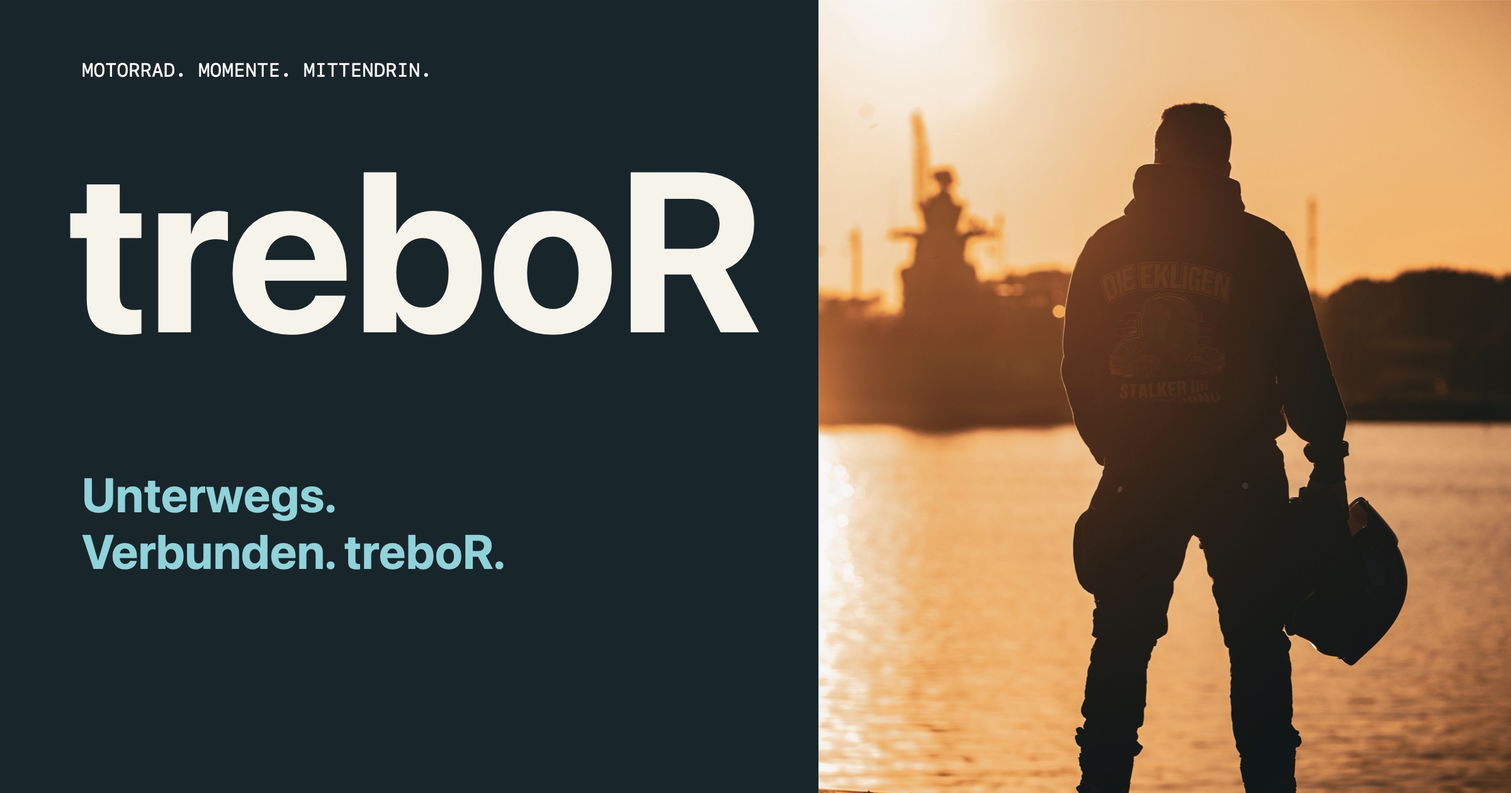
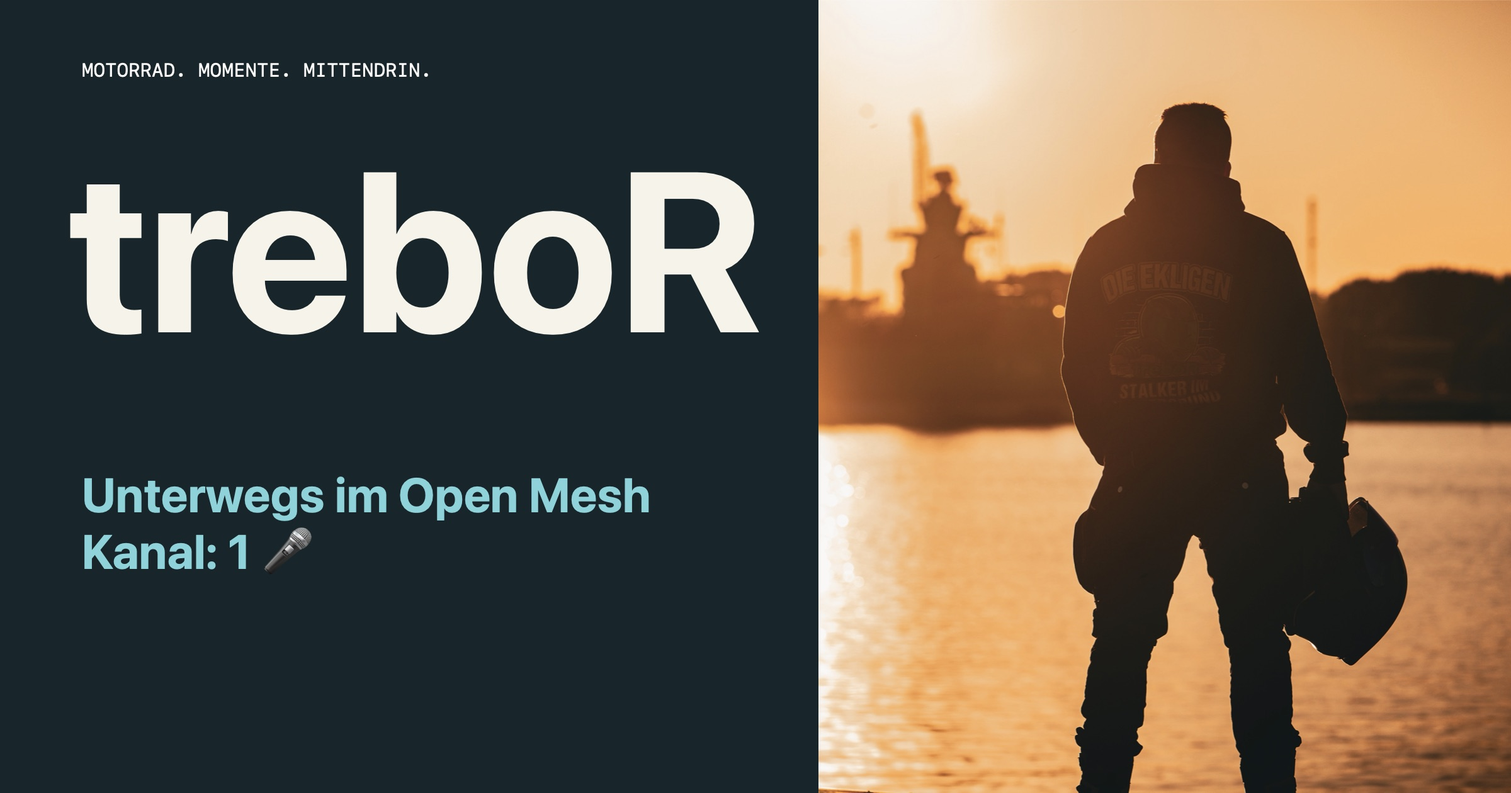
Update treboR website from Mac app

Changed region(s): [[0.0312, 0.65, 0.3438, 0.7429], [0.2188, 0.5881, 0.4375, 0.65]]

diff --git a/index.html b/index.html
@@ -6,7 +6,7 @@
 <link rel="canonical" href="https://trebor-official.github.io/links/"><meta property="og:url" content="https://trebor-official.github.io/links/"><meta property="og:image" content="https://trebor-official.github.io/links/social-preview.jpg"><meta name="twitter:card" content="summary_large_image">
 <link rel="icon" href="favicon.svg" type="image/svg+xml">
 <style>
-:root{color-scheme:dark;--bg:#101713;--fg:#F4F6EF;--accent:#00F1C8;--on-accent:#101713;--radius:20.0px}
+:root{color-scheme:dark;--bg:#101713;--fg:#F4F6EF;--accent:#00F1C8;--on-accent:#101713;--radius:25.439785714285716px}
 *{box-sizing:border-box}body{margin:0;background:var(--bg);color:var(--fg);font-family:Arial,Helvetica,sans-serif;-webkit-font-smoothing:antialiased}a{color:inherit}button{font:inherit}svg{width:24px;height:24px;display:block}button,a{-webkit-tap-highlight-color:transparent}a:focus-visible,button:focus-visible{outline:3px solid var(--accent);outline-offset:5px}.skip{position:fixed;top:-100px;left:16px;z-index:20;background:var(--fg);color:var(--bg);padding:14px}.skip:focus{top:12px}
 main{max-width:1600px;margin:auto;padding:0 5%}.masthead{display:flex;justify-content:space-between;align-items:center;padding:24px 0 18px;border-bottom:1px solid color-mix(in srgb,var(--fg) 25%,transparent);font:11px/1.4 monospace;letter-spacing:.1em}.mast-brand{display:flex;align-items:center;gap:10px;font:bold 21px Arial;letter-spacing:-.07em}.mast-brand b{color:var(--accent)}.avatar{border-radius:50%;object-fit:cover}.mast-note{max-width:50%;text-align:right;font-size:10px}.intro{position:relative;z-index:2;padding-top:28px;pointer-events:none}.eyebrow{font:10px/1.4 monospace;letter-spacing:.13em;margin:0 0 8px}.wordmark{font-family:Arial,Helvetica,sans-serif;font-size:clamp(80px,22vw,340px);font-weight:900;line-height:.79;letter-spacing:-.095em;margin:0 0 0 -.012em;overflow-wrap:anywhere}.wordmark .last{color:var(--accent);transition:color .7s}.composition{display:grid;grid-template-columns:minmax(0,1fr);margin-top:24px}.story{min-width:0}.bio{font-size:clamp(26px,4.1vw,56px);font-weight:700;letter-spacing:-.055em;line-height:1.08;white-space:pre-line;overflow-wrap:anywhere;max-width:540px;margin:0}.section-label{display:flex;align-items:center;gap:12px;font:10px/1.5 monospace;text-transform:uppercase;letter-spacing:.12em;margin:26px 0 12px}.section-label:before{content:'';width:24px;height:2px;background:var(--accent)}
 nav{display:grid;gap:0;border-top:1px solid color-mix(in srgb,var(--fg) 28%,transparent)}.card{position:relative;display:flex;gap:16px;align-items:center;min-height:88px;padding:18px 12px;text-decoration:none;border-bottom:1px solid color-mix(in srgb,var(--fg) 28%,transparent);border-radius:var(--radius);transition:background .2s,transform .2s;color:var(--fg)}.card.featured{background:var(--accent);color:var(--on-accent);border-color:var(--accent);margin-top:8px}.card[hidden]{display:none}.number{font:10px monospace;opacity:.75}.icon svg{width:26px;height:26px}.copy{min-width:0;flex:1;overflow-wrap:anywhere}.copy strong{display:block;font-size:25px;letter-spacing:-.045em}.copy small{display:block;font-size:12px;line-height:1.5;margin-top:3px}.arrow{transition:transform .2s}.arrow svg{width:22px;height:22px}.card:active{transform:scale(.985)}
@@ -36,7 +36,7 @@ nav{gap:12px;border-top:0}.card{overflow:hidden;min-height:126px;padding:17px 18
 </style></head><body class=""><a class="skip" href="#links">Direkt zu den Links</a><main>
 <div class="masthead"><span class="mast-brand">treboR<b aria-hidden="true">/</b></span><span class="mast-note">MOMENTE TEILEN.<br>VERBUNDEN BLEIBEN.</span></div>
 <header class="intro"><p class="eyebrow">DIE LINKS ZU MEINER WELT</p><h1 class="wordmark" data-idle="float" data-idle-seconds="5.0">trebo<span class=last>R</span></h1></header>
-<div class="composition"><section class="story" aria-label="Meine Welt"><p class="bio">Unterwegs. Verbunden. treboR.</p><p class="section-label" id="links">Hier geht’s weiter</p><nav aria-label="Alle Links"><a class="card platform-tiktok " href="https://www.tiktok.com/@t_r_e_b_o_r" target="_blank" rel="noopener noreferrer" data-idle="breathe" data-idle-seconds="3.0" data-link-id="6374449F-EB55-4ECB-A94F-E8848321D15F" data-effect="sparks" data-start="" data-end="" ><span class="link-art" aria-hidden="true"><span class='beat-bars'><i></i><i></i><i></i><i></i><i></i></span><span class='beat-symbol'><svg viewBox='0 0 24 24' fill='none' stroke='currentColor' stroke-width='1.7' stroke-linecap='round' stroke-linejoin='round' aria-hidden='true'><path d='M14 3v12.5a4.5 4.5 0 1 1-4-4.47M14 3c.5 4 3 6 7 6V6c-2.2 0-3.8-1.1-4-3Z'/></svg></span></span><span class="copy"><span class="link-kicker">KURZE CLIPS</span><strong>TikTok</strong><small>Mittendrin statt nur dabei.</small></span></a>
+<div class="composition"><section class="story" aria-label="Meine Welt"><p class="bio">Unterwegs im Open Mesh Kanal: 1 🎤</p><p class="section-label" id="links">Hier geht’s weiter</p><nav aria-label="Alle Links"><a class="card platform-tiktok " href="https://www.tiktok.com/@t_r_e_b_o_r" target="_blank" rel="noopener noreferrer" data-idle="breathe" data-idle-seconds="3.0" data-link-id="6374449F-EB55-4ECB-A94F-E8848321D15F" data-effect="sparks" data-start="" data-end="" ><span class="link-art" aria-hidden="true"><span class='beat-bars'><i></i><i></i><i></i><i></i><i></i></span><span class='beat-symbol'><svg viewBox='0 0 24 24' fill='none' stroke='currentColor' stroke-width='1.7' stroke-linecap='round' stroke-linejoin='round' aria-hidden='true'><path d='M14 3v12.5a4.5 4.5 0 1 1-4-4.47M14 3c.5 4 3 6 7 6V6c-2.2 0-3.8-1.1-4-3Z'/></svg></span></span><span class="copy"><span class="link-kicker">KURZE CLIPS</span><strong>TikTok</strong><small>Mittendrin statt nur dabei.</small></span></a>
 <a class="card platform-instagram " href="https://www.instagram.com/xd.trebor" target="_blank" rel="noopener noreferrer" data-idle="none" data-idle-seconds="7.0" data-link-id="9C6C74B6-CA5B-4F6B-A280-F73D2D7A8E16" data-effect="shine" data-start="" data-end="" ><span class="link-art" aria-hidden="true"><span class='photo-print'><img src='gallery-01.jpg' alt='' width='64' height='74'></span><span class='art-badge'><svg viewBox='0 0 24 24' fill='none' stroke='currentColor' stroke-width='1.7' stroke-linecap='round' stroke-linejoin='round' aria-hidden='true'><rect x='3' y='3' width='18' height='18' rx='5'/><circle cx='12' cy='12' r='4'/><circle cx='17.5' cy='6.5' r='.8' fill='currentColor' stroke='none'/></svg></span></span><span class="copy"><span class="link-kicker">FOTOS & STORIES</span><strong>Instagram</strong><small>Momente, die bleiben.</small></span></a>
 <a class="card platform-youtube " href="https://www.youtube.com/@treboRebi" target="_blank" rel="noopener noreferrer" data-idle="none" data-idle-seconds="7.0" data-link-id="E01A5DE8-E426-4526-8DB4-41D892ED6132" data-effect="none" data-start="" data-end="" ><span class="link-art" aria-hidden="true"><span class='video-frame'><img src='gallery-02.jpg' alt='' width='88' height='58'><span class='play-mark'><svg viewBox='0 0 24 24' fill='currentColor'><path d='m9 5 11 7-11 7Z'/></svg></span></span></span><span class="copy"><span class="link-kicker">VIDEOS</span><strong>YouTube</strong><small>Mehr sehen. Weiterfahren.</small></span></a>
 <a class="card platform-whatsapp " href="https://www.whatsapp.com/channel/0029VbC4JiP5Ui2PCmE1bk34" target="_blank" rel="noopener noreferrer" data-idle="none" data-idle-seconds="7.0" data-link-id="2F3833EC-A648-4936-8BC7-08DA1E8FF1FC" data-effect="none" data-start="" data-end="" ><span class="link-art" aria-hidden="true"><span class='chat-back'><i></i><i></i></span><span class='chat-front'><svg viewBox='0 0 24 24' fill='none' stroke='currentColor' stroke-width='1.7' stroke-linecap='round' stroke-linejoin='round' aria-hidden='true'><path d='M20.5 11.7a8.5 8.5 0 0 1-12.6 7.5L3 21l1.6-5a8.5 8.5 0 1 1 15.9-4.3Z'/><path d='m8 7-1 2c1 4 3 6 7 7l2-1-2-3-1 1c-1.5-.6-2.4-1.5-3-3l1-1Z'/></svg></span></span><span class="copy"><span class="link-kicker">DER KANAL</span><strong>WhatsApp</strong><small>Updates direkt im Kanal.</small></span></a>
@@ -244,16 +244,30 @@ if(scene){
   reduced.addEventListener('change',()=>{if(reduced.matches)document.querySelectorAll('.card,.wordmark,.click-particle').forEach(n=>n.getAnimations().forEach(a=>a.cancel()));items.forEach(sync);});
   window.addEventListener('pagehide',()=>{items.forEach(i=>{i.animation?.cancel();i.animation=null;});});
   window.addEventListener('pageshow',()=>items.forEach(sync));
-})();</script><style>
-.return-welcome{color:var(--fg);background:var(--bg,#101813);border:1px solid var(--accent);border-radius:26px;padding:clamp(24px,6vw,42px);width:min(420px,calc(100vw - 40px));box-sizing:border-box;box-shadow:0 25px 100px #0008;text-align:center}
+})();</script><script>const treborPopup={"title":"Na, wieder da?","answers":[{"title":"hatte kurz Hoffnung 😂","id":"2EF03A98-CEDC-4580-B9FC-37E056506872"},{"title":"upsi 🤭","id":"741053EA-ADDF-4AF6-8940-813166E33C19"},{"title":"hab mich verklickt, ich schwöre","id":"E0A84584-6B70-4F40-B173-92B11E0EC079"},{"title":"der war nicht schlecht","id":"B2C2F2C0-B4B3-4291-BA67-F820F335FB18"}],"message":"Was hast du denn bitte von uns gedacht? Jetzt sind wir auf deine Ausrede gespannt.","enabled":true};const treborPopupEndpoint="https:\/\/trebor-contact.trebor-official.workers.dev";const treborPopupPreview=false;</script><style>
+.return-welcome{color:var(--fg);background:var(--bg,#101813);border:1px solid var(--accent);border-radius:26px;padding:clamp(24px,6vw,42px);width:min(420px,calc(100vw - 40px));box-sizing:border-box;box-shadow:0 25px 100px #0008;text-align:center;max-height:90dvh;overflow:auto}
 .return-welcome::backdrop{background:#041316b8;backdrop-filter:blur(8px)}
-.return-welcome .wink{font-size:48px;display:block;margin-bottom:16px}.return-welcome h2{font:800 clamp(26px,7vw,36px)/1.08 system-ui;letter-spacing:-1px;margin:0 0 18px}.return-welcome p{line-height:1.6;margin:0 0 24px}.return-welcome button{font:700 16px system-ui;min-height:48px;padding:12px 24px;border:0;border-radius:24px;background:var(--accent);color:#081313;cursor:pointer}.return-welcome button:focus-visible{outline:3px solid var(--fg);outline-offset:4px}
+.return-welcome .wink{font-size:48px;display:block;margin-bottom:16px}.return-welcome h2{font:800 clamp(26px,7vw,36px)/1.08 system-ui;letter-spacing:-1px;margin:0 0 18px}.return-welcome p{line-height:1.6;margin:0 0 24px}.return-welcome button{display:block;width:100%;margin-top:10px;font:700 16px system-ui;min-height:48px;padding:12px 24px;border:0;border-radius:24px;background:var(--accent);color:#081313;cursor:pointer}.return-welcome button:focus-visible{outline:3px solid var(--fg);outline-offset:4px}
 </style>
 <script>(()=>{
   let pending=null,left=false,shown=false;
   const dialog=document.createElement('dialog');dialog.className='return-welcome';dialog.setAttribute('aria-labelledby','return-title');dialog.setAttribute('aria-describedby','return-copy');
-  dialog.innerHTML='<span class="wink" aria-hidden="true">👀</span><h2 id="return-title">Na, wieder da?</h2><p id="return-copy">Was hast du denn bitte von uns gedacht?<br>Wir müssen reden. Oder du klickst einfach auf einen der anderen Links.</p><button type="button" autofocus>Okay, erwischt.</button>';
-  document.body.append(dialog);dialog.querySelector('button').addEventListener('click',()=>dialog.close());
+  dialog.innerHTML='<span class="wink" aria-hidden="true">👀</span><h2 id="return-title"></h2><p id="return-copy"></p><div class="popup-answers"></div>';
+  dialog.querySelector('h2').textContent=treborPopup.title;dialog.querySelector('p').textContent=treborPopup.message;
+  let answered=false;
+  for(const answer of treborPopup.answers.slice(0,8)){
+    const button=document.createElement('button');button.type='button';button.textContent=answer.title;button.dataset.answerId=answer.id;
+    button.addEventListener('click',()=>{
+      if(answered)return;answered=true;
+      if(treborPopupEndpoint&&!navigator.globalPrivacyControl&&navigator.doNotTrack!=='1')fetch(treborPopupEndpoint.replace(/\/$/,'')+'/events',{method:'POST',headers:{'Content-Type':'application/json'},body:JSON.stringify({kind:'popup',link:answer.id}),credentials:'omit',referrerPolicy:'no-referrer',keepalive:true}).catch(()=>{});
+      dialog.close();
+    });dialog.querySelector('.popup-answers').append(button);
+  }
+  document.body.append(dialog);
+  if(treborPopupPreview){
+    const replay=document.createElement('button');replay.textContent='Popup-Vorschau öffnen';replay.style.cssText='margin:24px;padding:14px;font:16px system-ui';document.body.append(replay);
+    replay.addEventListener('click',()=>{answered=false;dialog.setAttribute('open','');});dialog.setAttribute('open','');return;
+  }
   dialog.addEventListener('close',()=>{pending?.focus({preventScroll:true});pending=null;});
   function returned(){if(!pending||!left||shown||document.hidden)return;if(document.querySelector('dialog[open]'))return;shown=true;dialog.showModal();if(!matchMedia('(prefers-reduced-motion: reduce)').matches)dialog.animate([{opacity:0,transform:'translateY(18px) scale(.96)'},{opacity:1,transform:'translateY(0) scale(1)'}],{duration:350,easing:'cubic-bezier(.2,.8,.2,1)'});}
   document.querySelectorAll('a.platform-onlyfans').forEach(card=>{

diff --git a/datenschutz.html b/datenschutz.html
@@ -55,36 +55,41 @@ Die EU-Einstellung unserer Nachrichtendatenbank bedeutet nicht, dass sämtliche 
 Weitere Angaben zur Verarbeitung für Cloudflares eigene Zwecke:
 https://www.cloudflare.com/privacypolicy/
 
-7. Anonyme Aufruf- und Klickstatistik
+7. Zählung von Seitenaufrufen, Linkklicks und Popup-Antworten
 
-Wir verwenden eine sparsame Reichweitenmessung, um zu erkennen, wie häufig unsere Website aufgerufen wird und welche Links genutzt werden. Die Auswertung dient der Verbesserung unseres Auftritts. Sie dient nicht dazu, einzelne Besucher zu identifizieren oder personalisierte Werbung anzuzeigen.
+Zweck der Auswertung
+Wir verwenden eine sparsame Reichweitenmessung, um zu sehen, wie häufig unsere Website aufgerufen wird, welche Linkkarten genutzt werden und welche vorgegebenen Antworten im Rückkehr-Popup ausgewählt werden. Wir werten diese Ereignisse als Summen für Zeiträume aus, beispielsweise für sieben Tage, einen Monat oder einen selbst gewählten Zeitraum. Bei Popup-Antworten können wir außerdem den Anteil der jeweiligen Antwort an allen gezählten Antworten vergleichen. Die Auswertung dient der Verbesserung unseres Auftritts, nicht der Identifizierung einzelner Besucher oder personalisierter Werbung.
 
-Übermittelte Daten
-Beim ersten sichtbaren Anzeigen eines geladenen Seitendokuments wird ein Aufrufereignis übermittelt. Beim Aktivieren einer Social-Linkkarte wird ein Klickereignis übermittelt.
-Die Statistik-Nutzdaten enthalten ausschließlich die Ereignisart und bei Klicks eine interne Linkkennung. Diese Kennung bezeichnet die Karte, nicht den Besucher. Namen, E-Mail-Adressen, Nachrichteninhalte, vollständige Linkziele und Gerätekennungen sind nicht Bestandteil dieser Nutzdaten.
+Welche Ereignisse gezählt werden
+Beim ersten sichtbaren Anzeigen eines geladenen Seitendokuments wird ein Aufrufereignis gesendet. Beim Aktivieren einer Social-Linkkarte wird ein Linkklick gezählt. Wenn du im Rückkehr-Popup nach dem Spaß-Link einen vorgegebenen Antwortbutton auswählst, wird diese Auswahl als eigenes Antwortereignis gezählt. Das bloße Öffnen des Popups und ein Verlassen ohne Auswahl werden nicht gezählt. Pro angezeigtem Rückkehr-Popup wird höchstens eine Antwort übermittelt.
 
-Gespeicherte Daten
-Unser Dienst erhöht lediglich Tageszähler für die Ereignisart und die jeweilige Linkkennung. Die Tagesgrenzen richten sich nach UTC.
-In unserer Statistikdatenbank speichern wir keine IP-Adressen, individuellen Besucherkennungen, Geräteprofile, Standortinformationen oder genauen Zeitpunkte einzelner Besuche. Es gibt keine Zuordnung zu Nachrichten aus dem Kontaktformular.
-Für diese Messung setzen wir keine Analyse-Cookies, dauerhaften Browserkennungen oder Fingerprinting ein.
+Übermittelte und gespeicherte Daten
+Die von unserem Statistikskript gesendeten Nutzdaten enthalten ausschließlich die Ereignisart und bei Linkklicks oder Popup-Antworten eine interne Button-Kennung. Die Kennung bezeichnet den Link beziehungsweise die vorgegebene Antwort, nicht den Besucher. Sie ermöglicht uns, die Zählung der jeweiligen Beschriftung zuzuordnen. Namen, E-Mail-Adressen, Nachrichteninhalte, Freitextantworten, vollständige Linkziele und Gerätekennungen sind nicht Bestandteil dieser Nutzdaten.
+Unser Dienst erhöht Tageszähler für die Ereignisart und die jeweilige Kennung. Die Tagesgrenzen richten sich nach UTC. Einzelereignisse mit genauen Zeitpunkten, IP-Adressen, individuellen Besucherkennungen, Geräteprofilen oder Standortinformationen werden in unserer Statistikdatenbank nicht gespeichert. Es gibt keine Verknüpfung zwischen einem Seitenaufruf, einem Linkklick, einer Popup-Antwort und einer Nachricht aus dem Kontaktformular. Wir erstellen keine individuellen Besuchsverläufe.
+Für diese Zählung setzen wir keine Analyse-Cookies, dauerhaften Browserkennungen oder Fingerprinting ein.
 
 Technische Übermittlung und Rechtsgrundlage
-Die Ereignisse werden verschlüsselt an unseren Cloudflare-Dienst gesendet. Dabei erhält Cloudflare technisch notwendige Verbindungsdaten, insbesondere die IP-Adresse. Die gesamte Übermittlung ist deshalb nicht ausschließlich anonym; anonym aggregiert sind die von uns gespeicherten Tageszähler.
-Soweit bei der technischen Übermittlung personenbezogene Daten verarbeitet werden, stützen wir unsere Reichweitenmessung auf Art. 6 Abs. 1 Buchst. f DSGVO. Unser berechtigtes Interesse ist die Beurteilung der Seitennutzung ohne Besucherprofile. Für die Verarbeitung durch Cloudflare gelten ergänzend die Angaben in Abschnitt 6.
+Die Ereignisse werden verschlüsselt an unseren Cloudflare-Dienst gesendet. Cloudflare erhält dabei technisch notwendige Verbindungsdaten, insbesondere deine IP-Adresse. Die Übermittlung ist deshalb nicht vollständig anonym; anonym aggregiert sind die von uns gespeicherten Tageszähler.
+Soweit bei der technischen Übermittlung personenbezogene Daten verarbeitet werden, stützen wir die Reichweitenmessung auf Art. 6 Abs. 1 Buchst. f DSGVO. Unser berechtigtes Interesse besteht darin, die Nutzung unserer Seite, ihrer Links und der interaktiven Antwortmöglichkeiten ohne Besucherprofile auszuwerten. Für die Verarbeitung durch Cloudflare gelten ergänzend die Angaben in Abschnitt 6. Die Einwilligung in den Bot-Schutz des Kontaktformulars ist hiervon getrennt und erteilt keine Einwilligung in die Statistik.
 
-Datenschutzsignale und Speicherdauer
-Bei aktiviertem Global Privacy Control oder dem Browserwert Do Not Track „1“ sendet unser Statistikskript keine Ereignisse. Die Website und ihre Links bleiben nutzbar. Die Mac-App-Vorschau sendet ebenfalls keine Statistikereignisse.
-Tageszähler werden nach 366 Tagen im nächsten täglichen Bereinigungslauf gelöscht. Wiederherstellbare Datenbanksicherungen können noch bis zu sieben Tage zurückreichen. Die Auswertung ist nur über unseren geschützten Betreiberzugang zugänglich.
+Datenschutzsignale und Widerspruch
+Bei aktiviertem Global Privacy Control oder dem Browserwert Do Not Track „1“ senden unsere Statistikskripte keine Aufruf-, Linkklick- oder Popup-Antwortereignisse. Die Seite, ihre Links und die Antwortbuttons bleiben nutzbar. Auch die Vorschau in der Mac-App sendet keine Statistikereignisse.
+Soweit personenbezogene Daten auf Grundlage berechtigter Interessen verarbeitet werden, kannst du aus Gründen deiner besonderen Situation widersprechen. Dafür erreichst du uns unter trebor.rebi@gmail.com. Da wir keine individuellen Besucherkennungen speichern, können wir bereits aggregierte Zählwerte nicht nachträglich einer bestimmten Person zuordnen.
+
+Speicherdauer und Zugriff
+Tageszähler, deren Datum mehr als 366 Tage zurückliegt, werden im nächsten täglichen Bereinigungslauf gelöscht. Wir können die bisherigen Statistikwerte auch vorher vollständig zurücksetzen, beispielsweise nach einer Testphase. Neue Ereignisse werden anschließend erneut gezählt. Ein Statistik-Reset löscht keine Nachrichten aus dem Kontaktformular.
+Gelöschte Daten können im verwendeten kostenlosen Cloudflare-D1-Tarif noch bis zu sieben Tage in wiederherstellbaren Datenbankständen enthalten sein:
+https://developers.cloudflare.com/d1/reference/time-travel/
+Die Auswertung ist nur über unseren geschützten Betreiberzugang zugänglich.
 
 Grenzen der Auswertung
-Gezählt werden Aufrufe und Klicks, keine eindeutigen Personen. Wiederholte Besuche und Klicks können mehrfach zählen. Bots, Browserblocker und Verbindungsfehler können die Ergebnisse beeinflussen. Aus einem Klick erkennen wir nicht, wer geklickt hat oder ob die Zielseite anschließend tatsächlich genutzt wurde.
-Mangels Besucherkennung können wir einzelne Besuche nicht nachträglich einer Person zuordnen oder gezielt aus einem Tageszähler herauslösen.
+Gezählt werden Ereignisse, keine eindeutigen Personen. Erneutes Laden, wiederholte Besuche oder mehrere Linkklicks können mehrfach zählen. Bots, Browserblocker, Datenschutzsignale und Verbindungsfehler beeinflussen die Ergebnisse. Die Antwortanteile beziehen sich nur auf tatsächlich gezählte Antworten und sind keine repräsentative Aussage über alle Besucher. Wir erkennen nicht, wer eine Antwort gewählt hat oder ob eine angeklickte Zielseite anschließend tatsächlich genutzt wurde.
 
 8. Externe Links und Seiteneffekte
 
 Unsere Social-Karten sind externe Links und keine eingebetteten Social-Media-Feeds. Beim Folgen eines Links öffnet sich die jeweilige Zielseite. Dort gelten die Datenschutzbedingungen des jeweiligen Anbieters. Die Beschriftung einer Karte kann Teil eines Spaß-Links sein; maßgeblich ist das tatsächliche Linkziel.
 Wir verwenden keine Werbepixel oder Marketing-Tracker.
-Für den einmaligen Rückkehrgruß nach dem Spaß-Link wird lediglich ein vorübergehender Zustand im Arbeitsspeicher des geöffneten Browser-Tabs verwendet. Dafür speichern wir keine dauerhafte Kennung und senden kein zusätzliches Statistikereignis.
+Für den einmaligen Rückkehrgruß nach dem Spaß-Link wird lediglich ein vorübergehender Zustand im Arbeitsspeicher des geöffneten Browser-Tabs verwendet. Dafür speichern wir keine dauerhafte Kennung. Wenn die Statistik aktiviert ist und du einen Antwortbutton auswählst, zählen wir dessen Kennung als anonym aggregierte Antwort nach den Regeln in Abschnitt 7. Das Öffnen und das Schließen ohne Antwort werden nicht gezählt. Die Auswahl wird weder mit einer Person noch mit einer Kontaktanfrage verknüpft.
 
 9. Deine Rechte
 

diff --git a/404.html b/404.html
@@ -6,7 +6,7 @@
 <link rel="canonical" href="https://trebor-official.github.io/links/"><meta property="og:url" content="https://trebor-official.github.io/links/"><meta property="og:image" content="https://trebor-official.github.io/links/social-preview.jpg"><meta name="twitter:card" content="summary_large_image">
 <link rel="icon" href="favicon.svg" type="image/svg+xml">
 <style>
-:root{color-scheme:dark;--bg:#101713;--fg:#F4F6EF;--accent:#00F1C8;--on-accent:#101713;--radius:20.0px}
+:root{color-scheme:dark;--bg:#101713;--fg:#F4F6EF;--accent:#00F1C8;--on-accent:#101713;--radius:25.439785714285716px}
 *{box-sizing:border-box}body{margin:0;background:var(--bg);color:var(--fg);font-family:Arial,Helvetica,sans-serif;-webkit-font-smoothing:antialiased}a{color:inherit}button{font:inherit}svg{width:24px;height:24px;display:block}button,a{-webkit-tap-highlight-color:transparent}a:focus-visible,button:focus-visible{outline:3px solid var(--accent);outline-offset:5px}.skip{position:fixed;top:-100px;left:16px;z-index:20;background:var(--fg);color:var(--bg);padding:14px}.skip:focus{top:12px}
 main{max-width:1600px;margin:auto;padding:0 5%}.masthead{display:flex;justify-content:space-between;align-items:center;padding:24px 0 18px;border-bottom:1px solid color-mix(in srgb,var(--fg) 25%,transparent);font:11px/1.4 monospace;letter-spacing:.1em}.mast-brand{display:flex;align-items:center;gap:10px;font:bold 21px Arial;letter-spacing:-.07em}.mast-brand b{color:var(--accent)}.avatar{border-radius:50%;object-fit:cover}.mast-note{max-width:50%;text-align:right;font-size:10px}.intro{position:relative;z-index:2;padding-top:28px;pointer-events:none}.eyebrow{font:10px/1.4 monospace;letter-spacing:.13em;margin:0 0 8px}.wordmark{font-family:Arial,Helvetica,sans-serif;font-size:clamp(80px,22vw,340px);font-weight:900;line-height:.79;letter-spacing:-.095em;margin:0 0 0 -.012em;overflow-wrap:anywhere}.wordmark .last{color:var(--accent);transition:color .7s}.composition{display:grid;grid-template-columns:minmax(0,1fr);margin-top:24px}.story{min-width:0}.bio{font-size:clamp(26px,4.1vw,56px);font-weight:700;letter-spacing:-.055em;line-height:1.08;white-space:pre-line;overflow-wrap:anywhere;max-width:540px;margin:0}.section-label{display:flex;align-items:center;gap:12px;font:10px/1.5 monospace;text-transform:uppercase;letter-spacing:.12em;margin:26px 0 12px}.section-label:before{content:'';width:24px;height:2px;background:var(--accent)}
 nav{display:grid;gap:0;border-top:1px solid color-mix(in srgb,var(--fg) 28%,transparent)}.card{position:relative;display:flex;gap:16px;align-items:center;min-height:88px;padding:18px 12px;text-decoration:none;border-bottom:1px solid color-mix(in srgb,var(--fg) 28%,transparent);border-radius:var(--radius);transition:background .2s,transform .2s;color:var(--fg)}.card.featured{background:var(--accent);color:var(--on-accent);border-color:var(--accent);margin-top:8px}.card[hidden]{display:none}.number{font:10px monospace;opacity:.75}.icon svg{width:26px;height:26px}.copy{min-width:0;flex:1;overflow-wrap:anywhere}.copy strong{display:block;font-size:25px;letter-spacing:-.045em}.copy small{display:block;font-size:12px;line-height:1.5;margin-top:3px}.arrow{transition:transform .2s}.arrow svg{width:22px;height:22px}.card:active{transform:scale(.985)}
@@ -240,16 +240,30 @@ if(scene){
   reduced.addEventListener('change',()=>{if(reduced.matches)document.querySelectorAll('.card,.wordmark,.click-particle').forEach(n=>n.getAnimations().forEach(a=>a.cancel()));items.forEach(sync);});
   window.addEventListener('pagehide',()=>{items.forEach(i=>{i.animation?.cancel();i.animation=null;});});
   window.addEventListener('pageshow',()=>items.forEach(sync));
-})();</script><style>
-.return-welcome{color:var(--fg);background:var(--bg,#101813);border:1px solid var(--accent);border-radius:26px;padding:clamp(24px,6vw,42px);width:min(420px,calc(100vw - 40px));box-sizing:border-box;box-shadow:0 25px 100px #0008;text-align:center}
+})();</script><script>const treborPopup={"title":"Na, wieder da?","answers":[{"title":"hatte kurz Hoffnung 😂","id":"2EF03A98-CEDC-4580-B9FC-37E056506872"},{"title":"upsi 🤭","id":"741053EA-ADDF-4AF6-8940-813166E33C19"},{"title":"hab mich verklickt, ich schwöre","id":"E0A84584-6B70-4F40-B173-92B11E0EC079"},{"title":"der war nicht schlecht","id":"B2C2F2C0-B4B3-4291-BA67-F820F335FB18"}],"message":"Was hast du denn bitte von uns gedacht? Jetzt sind wir auf deine Ausrede gespannt.","enabled":true};const treborPopupEndpoint="https:\/\/trebor-contact.trebor-official.workers.dev";const treborPopupPreview=false;</script><style>
+.return-welcome{color:var(--fg);background:var(--bg,#101813);border:1px solid var(--accent);border-radius:26px;padding:clamp(24px,6vw,42px);width:min(420px,calc(100vw - 40px));box-sizing:border-box;box-shadow:0 25px 100px #0008;text-align:center;max-height:90dvh;overflow:auto}
 .return-welcome::backdrop{background:#041316b8;backdrop-filter:blur(8px)}
-.return-welcome .wink{font-size:48px;display:block;margin-bottom:16px}.return-welcome h2{font:800 clamp(26px,7vw,36px)/1.08 system-ui;letter-spacing:-1px;margin:0 0 18px}.return-welcome p{line-height:1.6;margin:0 0 24px}.return-welcome button{font:700 16px system-ui;min-height:48px;padding:12px 24px;border:0;border-radius:24px;background:var(--accent);color:#081313;cursor:pointer}.return-welcome button:focus-visible{outline:3px solid var(--fg);outline-offset:4px}
+.return-welcome .wink{font-size:48px;display:block;margin-bottom:16px}.return-welcome h2{font:800 clamp(26px,7vw,36px)/1.08 system-ui;letter-spacing:-1px;margin:0 0 18px}.return-welcome p{line-height:1.6;margin:0 0 24px}.return-welcome button{display:block;width:100%;margin-top:10px;font:700 16px system-ui;min-height:48px;padding:12px 24px;border:0;border-radius:24px;background:var(--accent);color:#081313;cursor:pointer}.return-welcome button:focus-visible{outline:3px solid var(--fg);outline-offset:4px}
 </style>
 <script>(()=>{
   let pending=null,left=false,shown=false;
   const dialog=document.createElement('dialog');dialog.className='return-welcome';dialog.setAttribute('aria-labelledby','return-title');dialog.setAttribute('aria-describedby','return-copy');
-  dialog.innerHTML='<span class="wink" aria-hidden="true">👀</span><h2 id="return-title">Na, wieder da?</h2><p id="return-copy">Was hast du denn bitte von uns gedacht?<br>Wir müssen reden. Oder du klickst einfach auf einen der anderen Links.</p><button type="button" autofocus>Okay, erwischt.</button>';
-  document.body.append(dialog);dialog.querySelector('button').addEventListener('click',()=>dialog.close());
+  dialog.innerHTML='<span class="wink" aria-hidden="true">👀</span><h2 id="return-title"></h2><p id="return-copy"></p><div class="popup-answers"></div>';
+  dialog.querySelector('h2').textContent=treborPopup.title;dialog.querySelector('p').textContent=treborPopup.message;
+  let answered=false;
+  for(const answer of treborPopup.answers.slice(0,8)){
+    const button=document.createElement('button');button.type='button';button.textContent=answer.title;button.dataset.answerId=answer.id;
+    button.addEventListener('click',()=>{
+      if(answered)return;answered=true;
+      if(treborPopupEndpoint&&!navigator.globalPrivacyControl&&navigator.doNotTrack!=='1')fetch(treborPopupEndpoint.replace(/\/$/,'')+'/events',{method:'POST',headers:{'Content-Type':'application/json'},body:JSON.stringify({kind:'popup',link:answer.id}),credentials:'omit',referrerPolicy:'no-referrer',keepalive:true}).catch(()=>{});
+      dialog.close();
+    });dialog.querySelector('.popup-answers').append(button);
+  }
+  document.body.append(dialog);
+  if(treborPopupPreview){
+    const replay=document.createElement('button');replay.textContent='Popup-Vorschau öffnen';replay.style.cssText='margin:24px;padding:14px;font:16px system-ui';document.body.append(replay);
+    replay.addEventListener('click',()=>{answered=false;dialog.setAttribute('open','');});dialog.setAttribute('open','');return;
+  }
   dialog.addEventListener('close',()=>{pending?.focus({preventScroll:true});pending=null;});
   function returned(){if(!pending||!left||shown||document.hidden)return;if(document.querySelector('dialog[open]'))return;shown=true;dialog.showModal();if(!matchMedia('(prefers-reduced-motion: reduce)').matches)dialog.animate([{opacity:0,transform:'translateY(18px) scale(.96)'},{opacity:1,transform:'translateY(0) scale(1)'}],{duration:350,easing:'cubic-bezier(.2,.8,.2,1)'});}
   document.querySelectorAll('a.platform-onlyfans').forEach(card=>{
